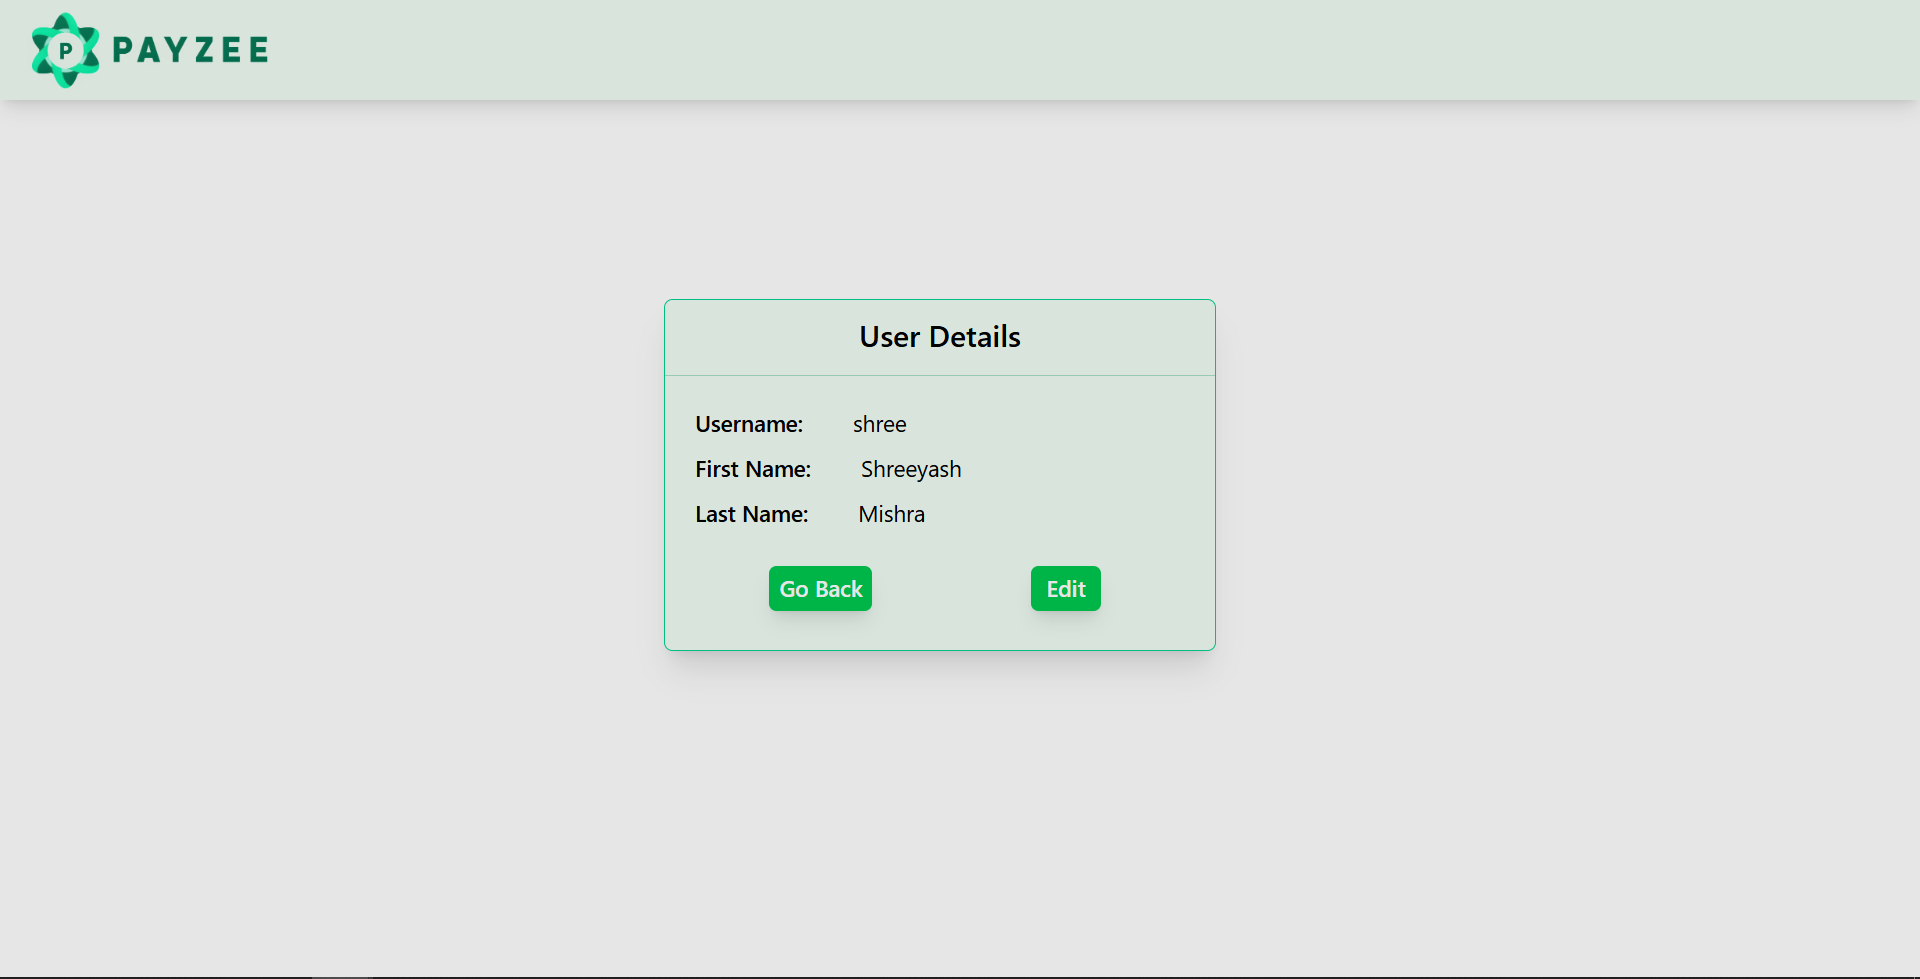
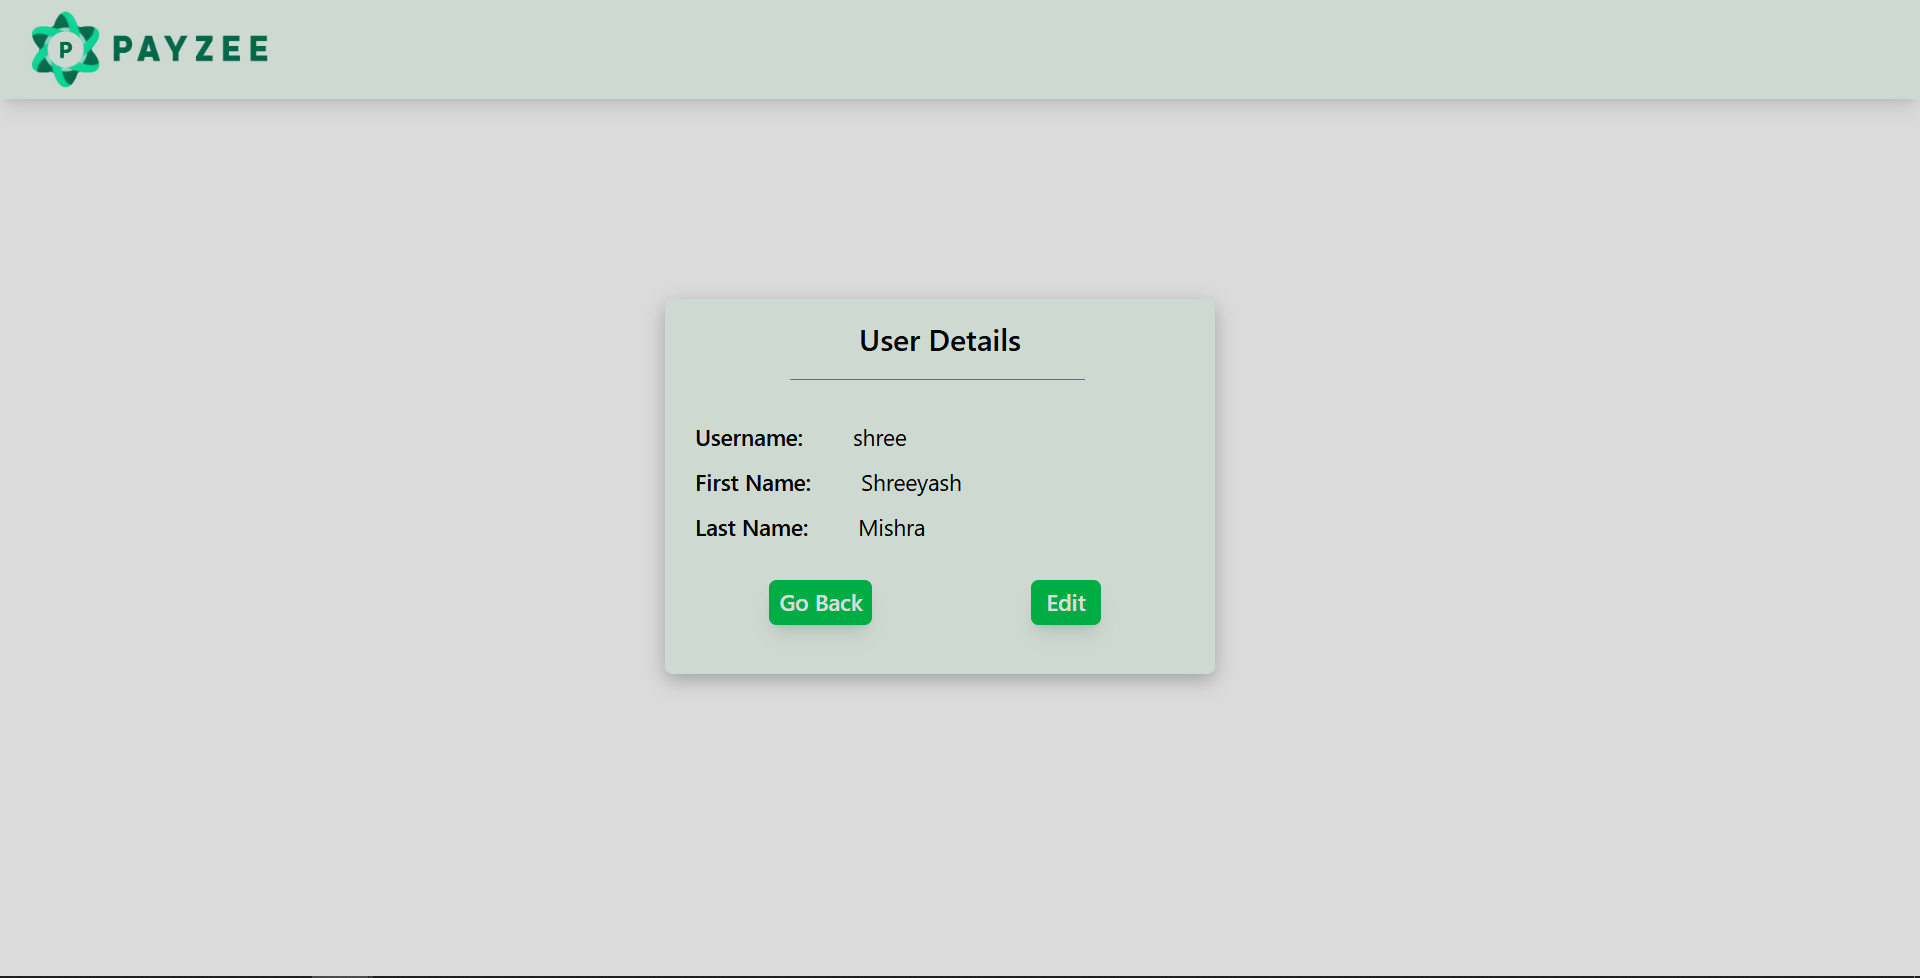
improved design uniformity in profile page

diff --git a/frontend/src/pages/Transfer.jsx b/frontend/src/pages/Transfer.jsx
@@ -20,12 +20,12 @@ export function Transfer(){
                     <img className="w-50 h-40 relative -top-10 ml-5" src="https://i.ibb.co/rKz95CCK/payzee-logo-removebg-preview-2.png"></img>
                 </div>
         </nav>
-        <div className="shadow-[0_5px_15px_rgba(0,0,0,0.25)] rounded-md w-100 h-85 mx-140 my-50 bg-green-50">
+        <div className="shadow-[0_5px_15px_rgba(0,0,0,0.25)] rounded-md w-100 h-84 mx-140 my-50 bg-green-50">
             <div className="flex justify-center text-black pt-5">
                 <SignHeading label={"Send Money"}></SignHeading>
             </div>
             <hr className="w-71 text-green-500 ml-14 pt-4"></hr>
-            <div className="flex p-5 mt-3">
+            <div className="flex p-5">
                 <svg width="12%" height="12%" viewBox="0 0 24 24" fill="none"   xmlns="http://www.w3.org/2000/svg">
                     <path d="M5.3163 19.4384C5.92462 18.0052 7.34492 17 9 17H15C16.6551 17 18.0754 18.0052 18.6837 19.4384M16 9.5C16 11.7091 14.2091 13.5 12 13.5C9.79086 13.5 8 11.7091 8 9.5C8 7.29086 9.79086 5.5 12 5.5C14.2091 5.5 16 7.29086 16 9.5ZM22 12C22 17.5228 17.5228 22 12 22C6.47715 22 2 17.5228 2 12C2 6.47715 6.47715 2 12 2C17.5228 2 22 6.47715 22 12Z" stroke="darkgreen" stroke-width="1.7" stroke-linecap="round" stroke-linejoin="round"/>
                 </svg>

diff --git a/frontend/src/pages/Profile.jsx b/frontend/src/pages/Profile.jsx
@@ -67,9 +67,9 @@ export function Profile() {
                     <img className="w-50 h-40 relative -top-10 ml-5" src="https://i.ibb.co/rKz95CCK/payzee-logo-removebg-preview-2.png"></img>
                 </div>
             </nav>
-            <div className="bg-green-50 outline-1 outline-emerald-400 rounded-md shadow-xl w-110 h-70 ml-133 mt-60">
-                <h1 className="text-center font-semibold pt-3 text-2xl">User Details</h1>
-                <hr className="mt-4 opacity-30 text-emerald-600"></hr>
+            <div className="bg-green-50 shadow-[0_5px_15px_rgba(0,0,0,0.25)] rounded-md w-110 h-75 ml-133 mt-60">
+                <h1 className="text-center font-semibold pt-4 text-2xl">User Details</h1>
+                <hr className="w-59 text-green-500 ml-25 pt-2 mt-4"></hr>
                 <div>
                     {editMode ? (
                         <div className="text-lg mt-5 ml-5">
